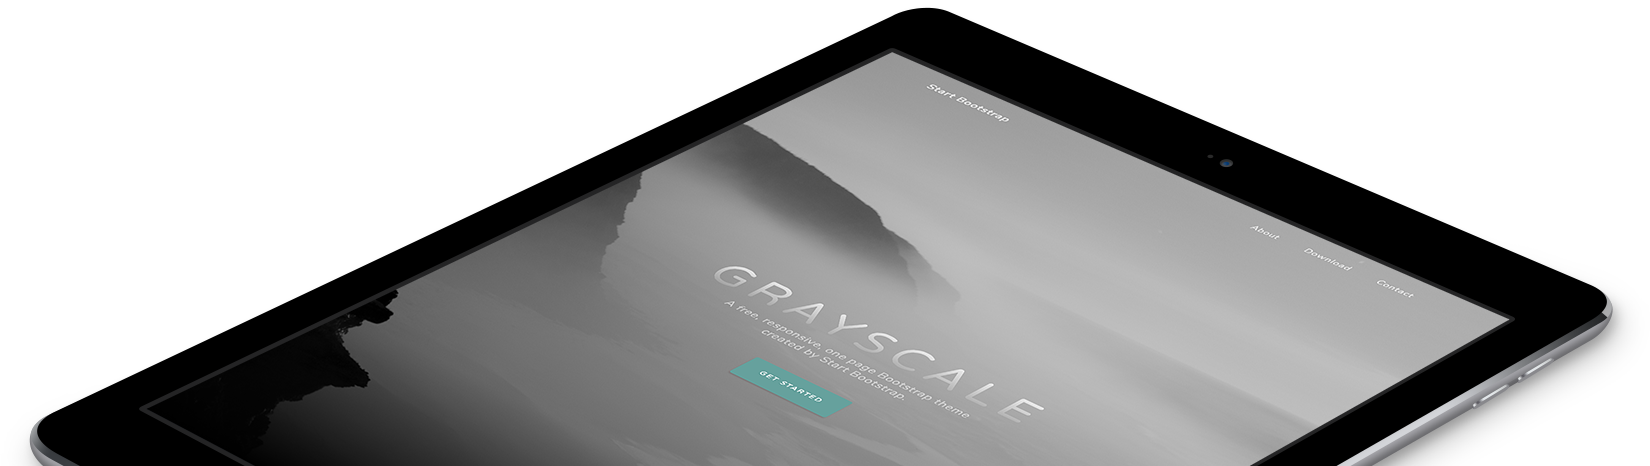
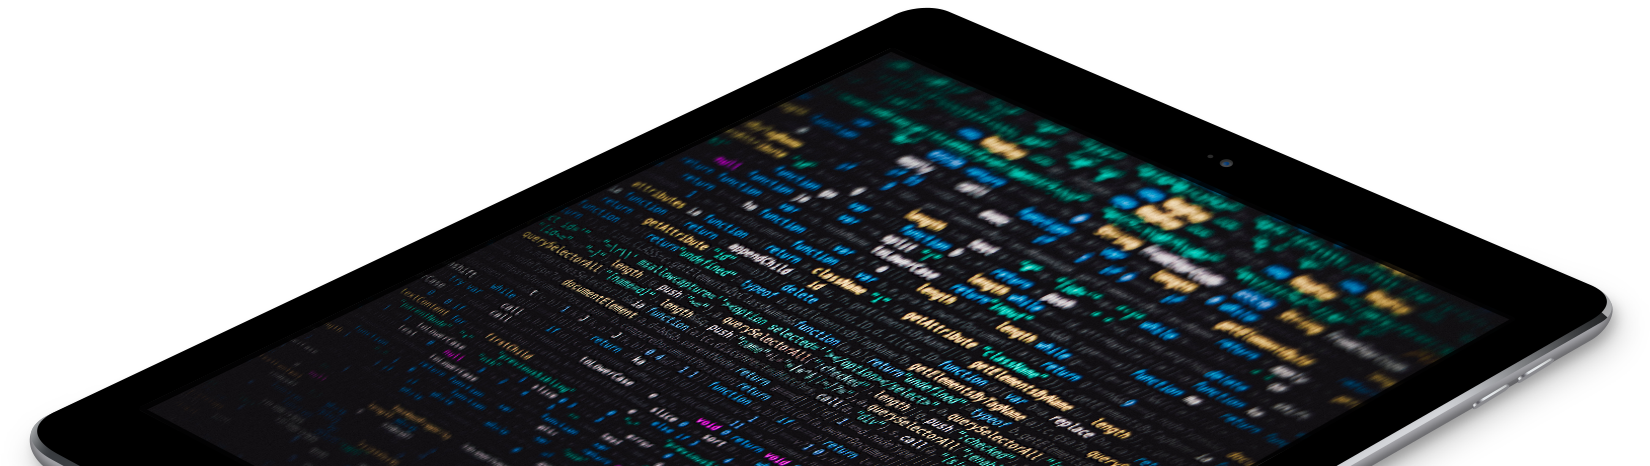
atualizaçao de portifolio
usei masi caracteristicas minhas, e deixei pagina mais com a cara de um site de programção mesmo. Template pego do StartBootstrap e personalizado

diff --git a/index.html b/index.html
@@ -83,12 +83,12 @@
       <!-- Featured Project Row -->
       <div class="row align-items-center no-gutters mb-4 mb-lg-5">
         <div class="col-xl-8 col-lg-7">
-          <img class="img-fluid mb-3 mb-lg-0" src="img/bg-masthead.jpg" alt="">
+          <img class="img-fluid mb-3 mb-lg-0" src="img/xp.png" alt="">
         </div>
         <div class="col-xl-4 col-lg-5">
           <div class="featured-text text-center text-lg-left">
             <h4>Conhecimentos</h4>
-            <p class="text-black-50 mb-0">HTML5, CSS, JavaScript, C, C++, Bootstrap, wordpress...em constante progresso</p>
+            <p class="text-black-50 mb-0">HTML5, CSS3, JavaScript5, C, C++, Bootstrap...em constante progresso</p>
           </div>
         </div>
       </div>
@@ -129,42 +129,6 @@
         </div>
       </div>
 
-            <!-- projeto 3 -->
-            <div class="row justify-content-center no-gutters mb-5 mb-lg-0">
-              <div class="col-lg-6">
-                <img class="img-fluid" src="img/demo-image-01.jpg" alt="">
-              </div>
-              <div class="col-lg-6">
-                <div class="bg-black text-center h-100 project">
-                  <div class="d-flex h-100">
-                    <div class="project-text w-100 my-auto text-center text-lg-left">
-                      <h4 class="text-white">[projeto]</h4>
-                      <p class="mb-0 text-white-50">[descricao]</p>
-                      <hr class="d-none d-lg-block mb-0 ml-0">
-                    </div>
-                  </div>
-                </div>
-              </div>
-            </div>
-      
-            <!-- projeto 4-->
-            <div class="row justify-content-center no-gutters">
-              <div class="col-lg-6">
-                <img class="img-fluid" src="img/demo-image-02.jpg" alt="">
-              </div>
-              <div class="col-lg-6 order-lg-first">
-                <div class="bg-black text-center h-100 project">
-                  <div class="d-flex h-100">
-                    <div class="project-text w-100 my-auto text-center text-lg-right">
-                      <h4 class="text-white">[projeto]</h4>
-                      <p class="mb-0 text-white-50">[descricao]</p>
-                      <hr class="d-none d-lg-block mb-0 mr-0">
-                    </div>
-                  </div>
-                </div>
-              </div>
-            </div>
-
     </div>
   </section>
 
@@ -177,10 +141,10 @@
           <i class="far fa-paper-plane fa-2x mb-2 text-white"></i>
           <h2 class="text-white mb-5">Contate-me para mais informações</h2>
 
-          <form class="form-inline d-flex">
+          <!--<form class="form-inline d-flex">
             <input type="email" class="form-control flex-fill mr-0 mr-sm-2 mb-3 mb-sm-0" id="inputEmail" placeholder="Entre com o endereco de e-mail...">
             <button type="submit" class="btn btn-primary mx-auto">Enviar</button>
-          </form>
+          </form>-->
 
         </div>
       </div>
@@ -232,6 +196,12 @@
       <div class="social d-flex justify-content-center">
         <a href="https://www.facebook.com/pedro.hib.3" class="mx-2">
           <i class="fab fa-facebook-f"></i>
+        </a>
+        <a href="https://www.instagram.com/pedro.hib/?hl=pt-br" class="mx-2">
+          <i class="fab fa-instagram"></i>
+        </a>
+        <a href="https://www.linkedin.com/in/pedro-hib-0b3095107/" class="mx-2">
+          <i class="fab fa-linkedin"></i>
         </a>
         <a href="https://github.com/PedroHIB" class="mx-2">
           <i class="fab fa-github"></i>
